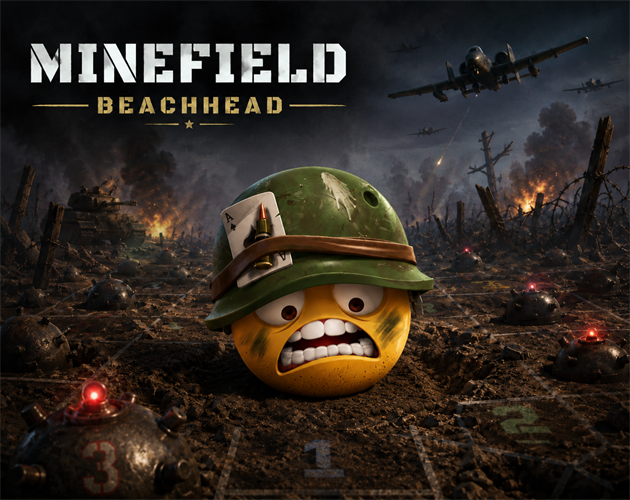
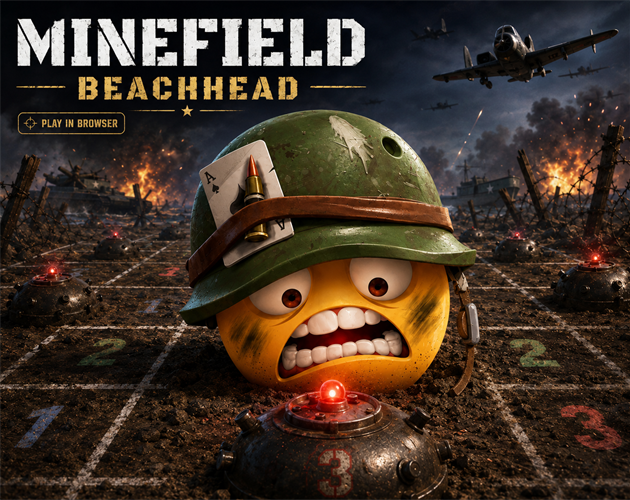
Replace itch cover with dramatic key art

diff --git a/release/itch-page-optimization.md b/release/itch-page-optimization.md
@@ -18,7 +18,7 @@ Use this as the living checklist for improving the itch.io page after launch.
 
 ## Highest Impact Next
 
-1. Upload `release/minefield-beachhead-thumb-a-drama-630x500.png` as the first cover test if you want the strongest listing/CTR thumbnail. Use `release/minefield-beachhead-thumb-b-gameplay-630x500.png` when you want the cover to communicate the actual phone/browser gameplay more clearly.
+1. Upload `release/minefield-beachhead-cover-630x500.png` as the cover image. This is the current recommended cover: dramatic, readable, 3D, military/stencil, and clearly tied to Minesweeper through the grid, numbers, and mines.
 2. Upload the refreshed screenshots from `release/screenshots/`.
 3. Paste the refined copy from `release/itch-page-copy.md`.
 4. Put only the 3 strongest GIFs in the page description: `01-menu-to-campaign.gif`, `02-scan-signal.gif`, and `05-campaign-explosion-supplies.gif`.
@@ -36,11 +36,9 @@ Use this as the living checklist for improving the itch.io page after launch.
 Use this order on itch.io:
 
 1. Cover image:
-   - Recommended first test: `release/minefield-beachhead-thumb-a-drama-630x500.png`.
-   - Gameplay-focused alternative: `release/minefield-beachhead-thumb-b-gameplay-630x500.png`.
-   - Cinematic/brand alternative: `release/minefield-beachhead-thumb-c-cinematic-630x500.png`.
-   - Clean previous option: `release/minefield-beachhead-itch-thumbnail-630x500.png`.
-   - Original cinematic art: `release/minefield-beachhead-cover-630x500.png`.
+   - Recommended current cover: `release/minefield-beachhead-cover-630x500.png`.
+   - Source art archive: `release/minefield-beachhead-cover-source-2026-06-18.png`.
+   - Older experimental thumbnails exist in `release/`, but do not use them unless you specifically want to A/B test later.
 2. Short description: `Five sectors. One mistake. No second chances. A tactical minesweeper operation for browser and mobile.`
 3. Main description from `release/itch-page-copy.md`.
 4. First visible section:

diff --git a/release/itch-upload-checklist.md b/release/itch-upload-checklist.md
@@ -38,11 +38,9 @@ Use `release/itch-page-setup.md` as the full page setup reference.
 19. Do not use old screenshots with compressed/clipped HUD
 20. Do not use the old Campaign/SCAN static screenshot; use `release/gifs/02-scan-signal.gif` for SCAN instead
 21. Upload cover image:
-    - Recommended first test: `release/minefield-beachhead-thumb-a-drama-630x500.png`
-    - Gameplay-focused alternative: `release/minefield-beachhead-thumb-b-gameplay-630x500.png`
-    - Cinematic/brand alternative: `release/minefield-beachhead-thumb-c-cinematic-630x500.png`
-    - Clean previous option: `release/minefield-beachhead-itch-thumbnail-630x500.png`
-    - Original cinematic cover option: `release/minefield-beachhead-cover-630x500.png`
+    - Use: `release/minefield-beachhead-cover-630x500.png`
+    - Source archive: `release/minefield-beachhead-cover-source-2026-06-18.png`
+    - Do not use the older experimental thumbnails unless you are intentionally running an A/B test later
 22. Confirm first page scan:
     - Hook is visible immediately
     - CTA says `Play now in browser. Fullscreen recommended.`
